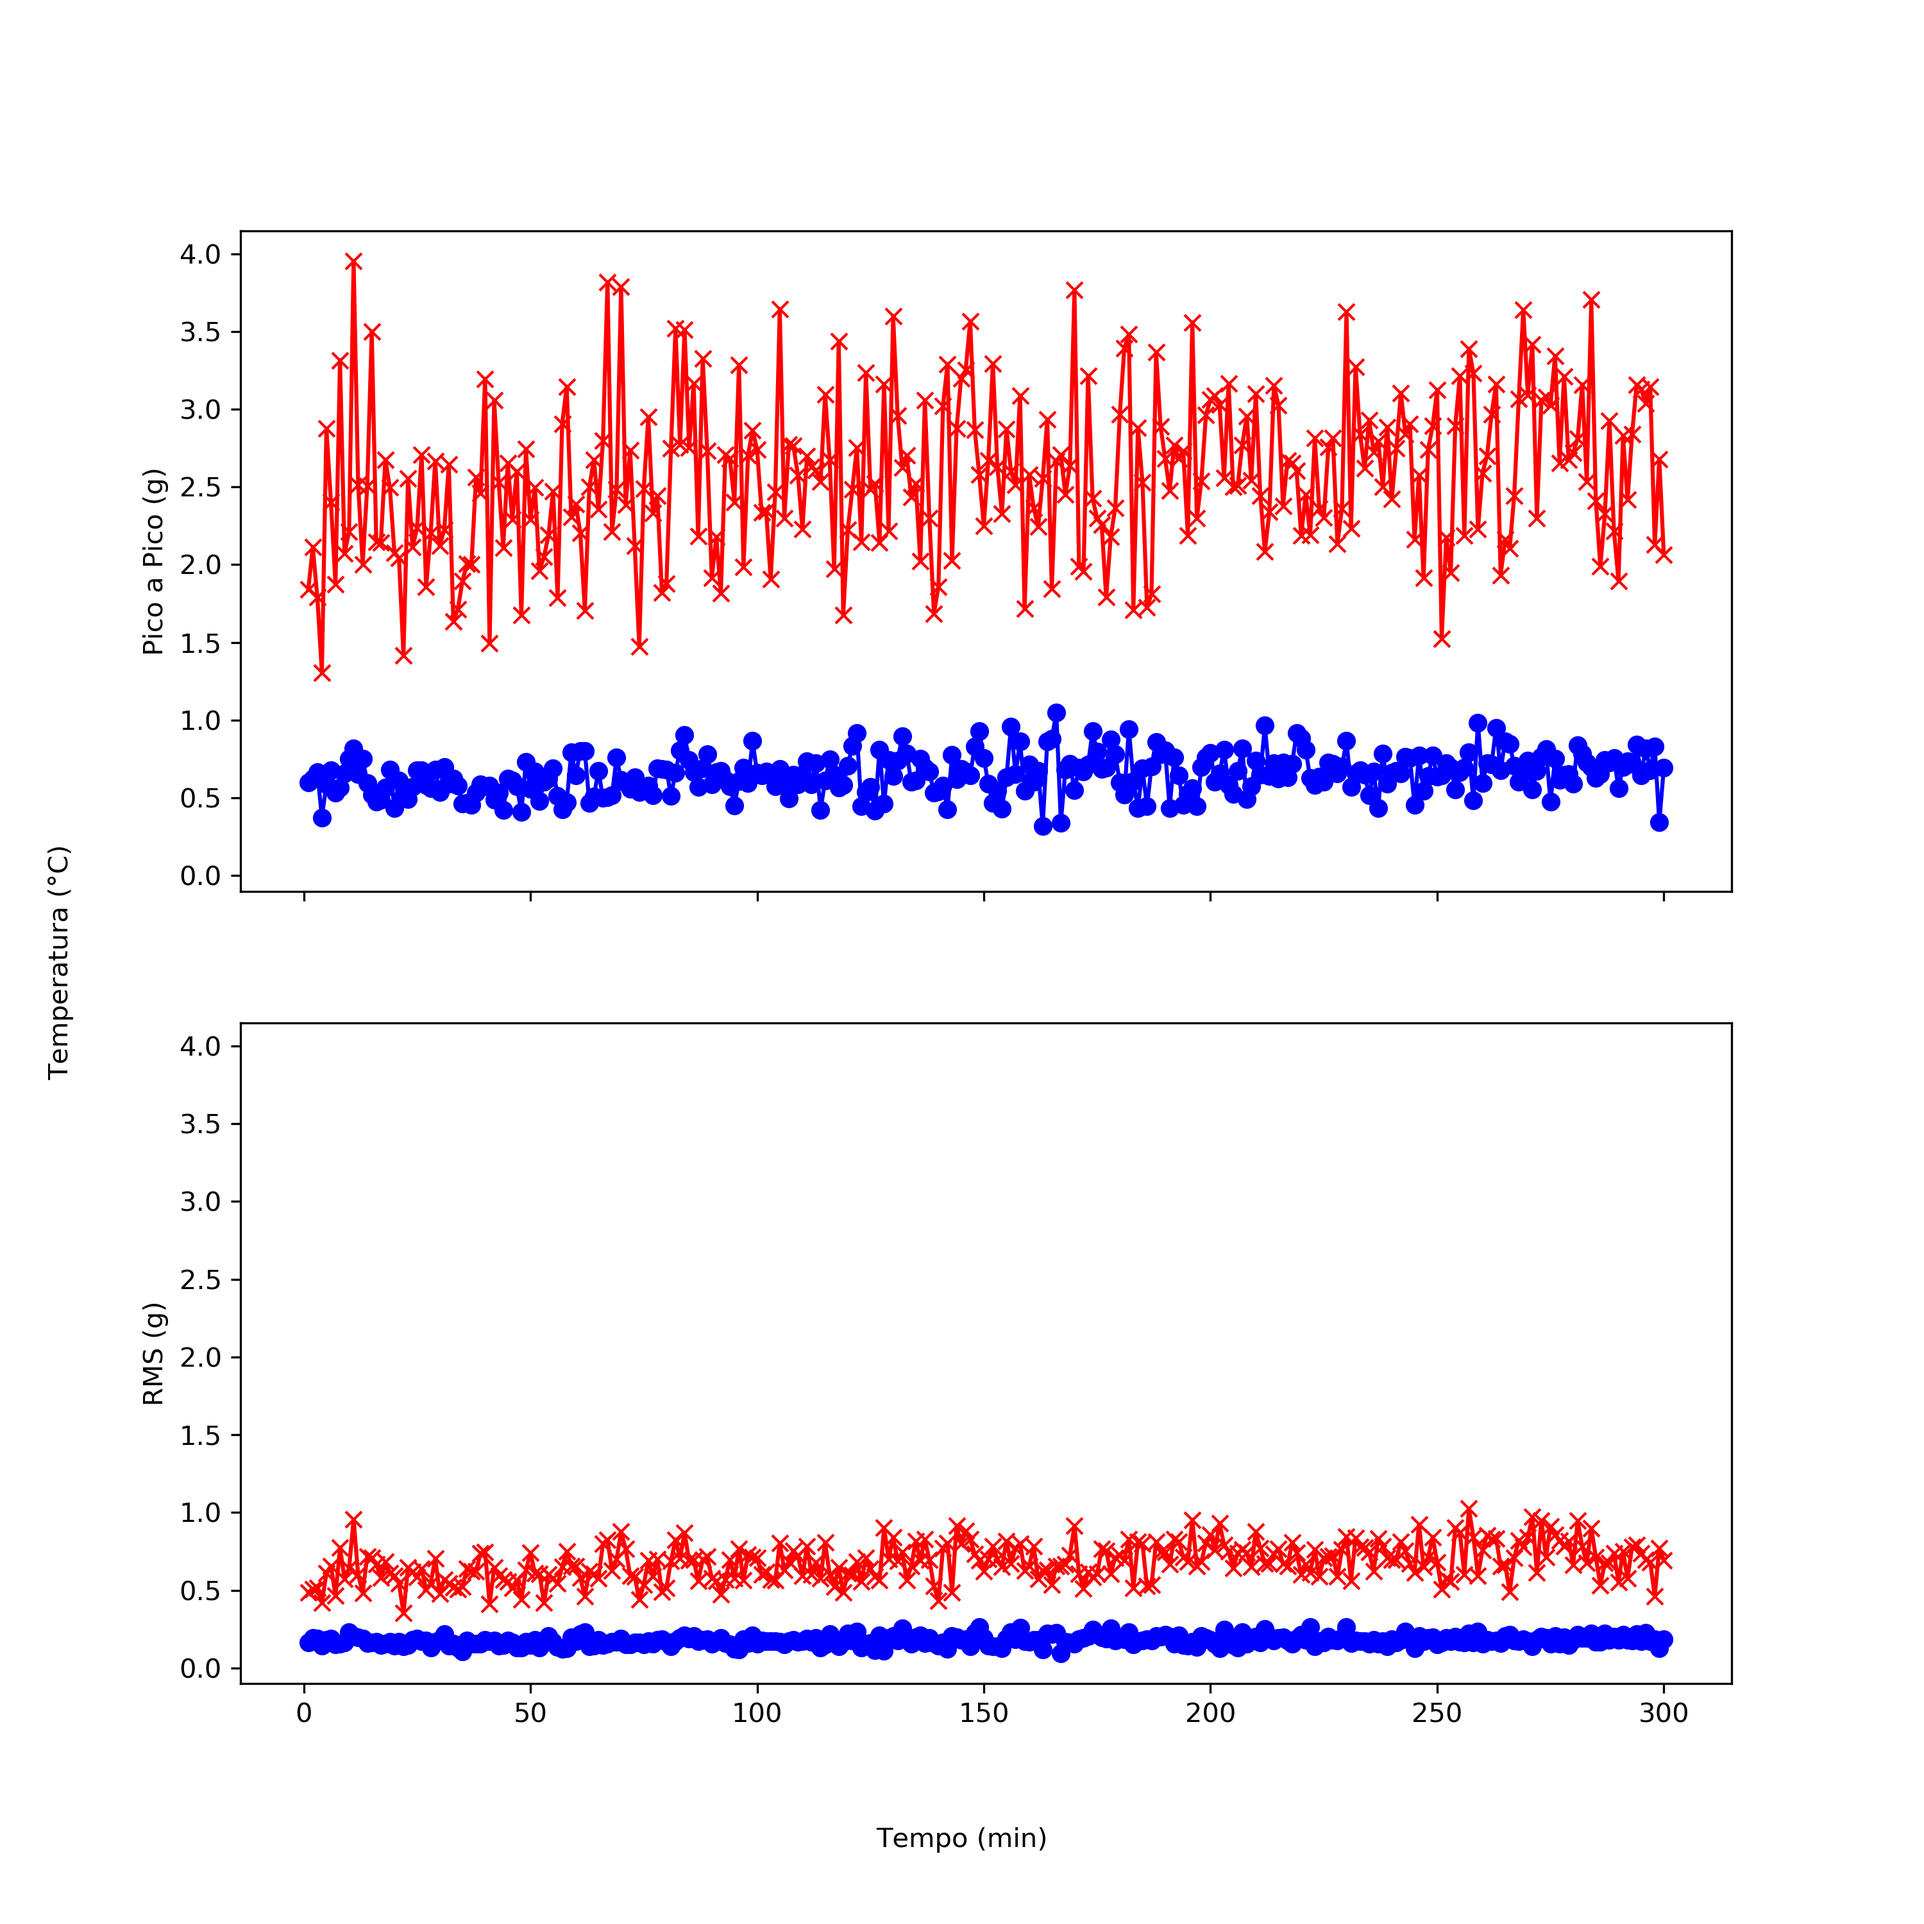
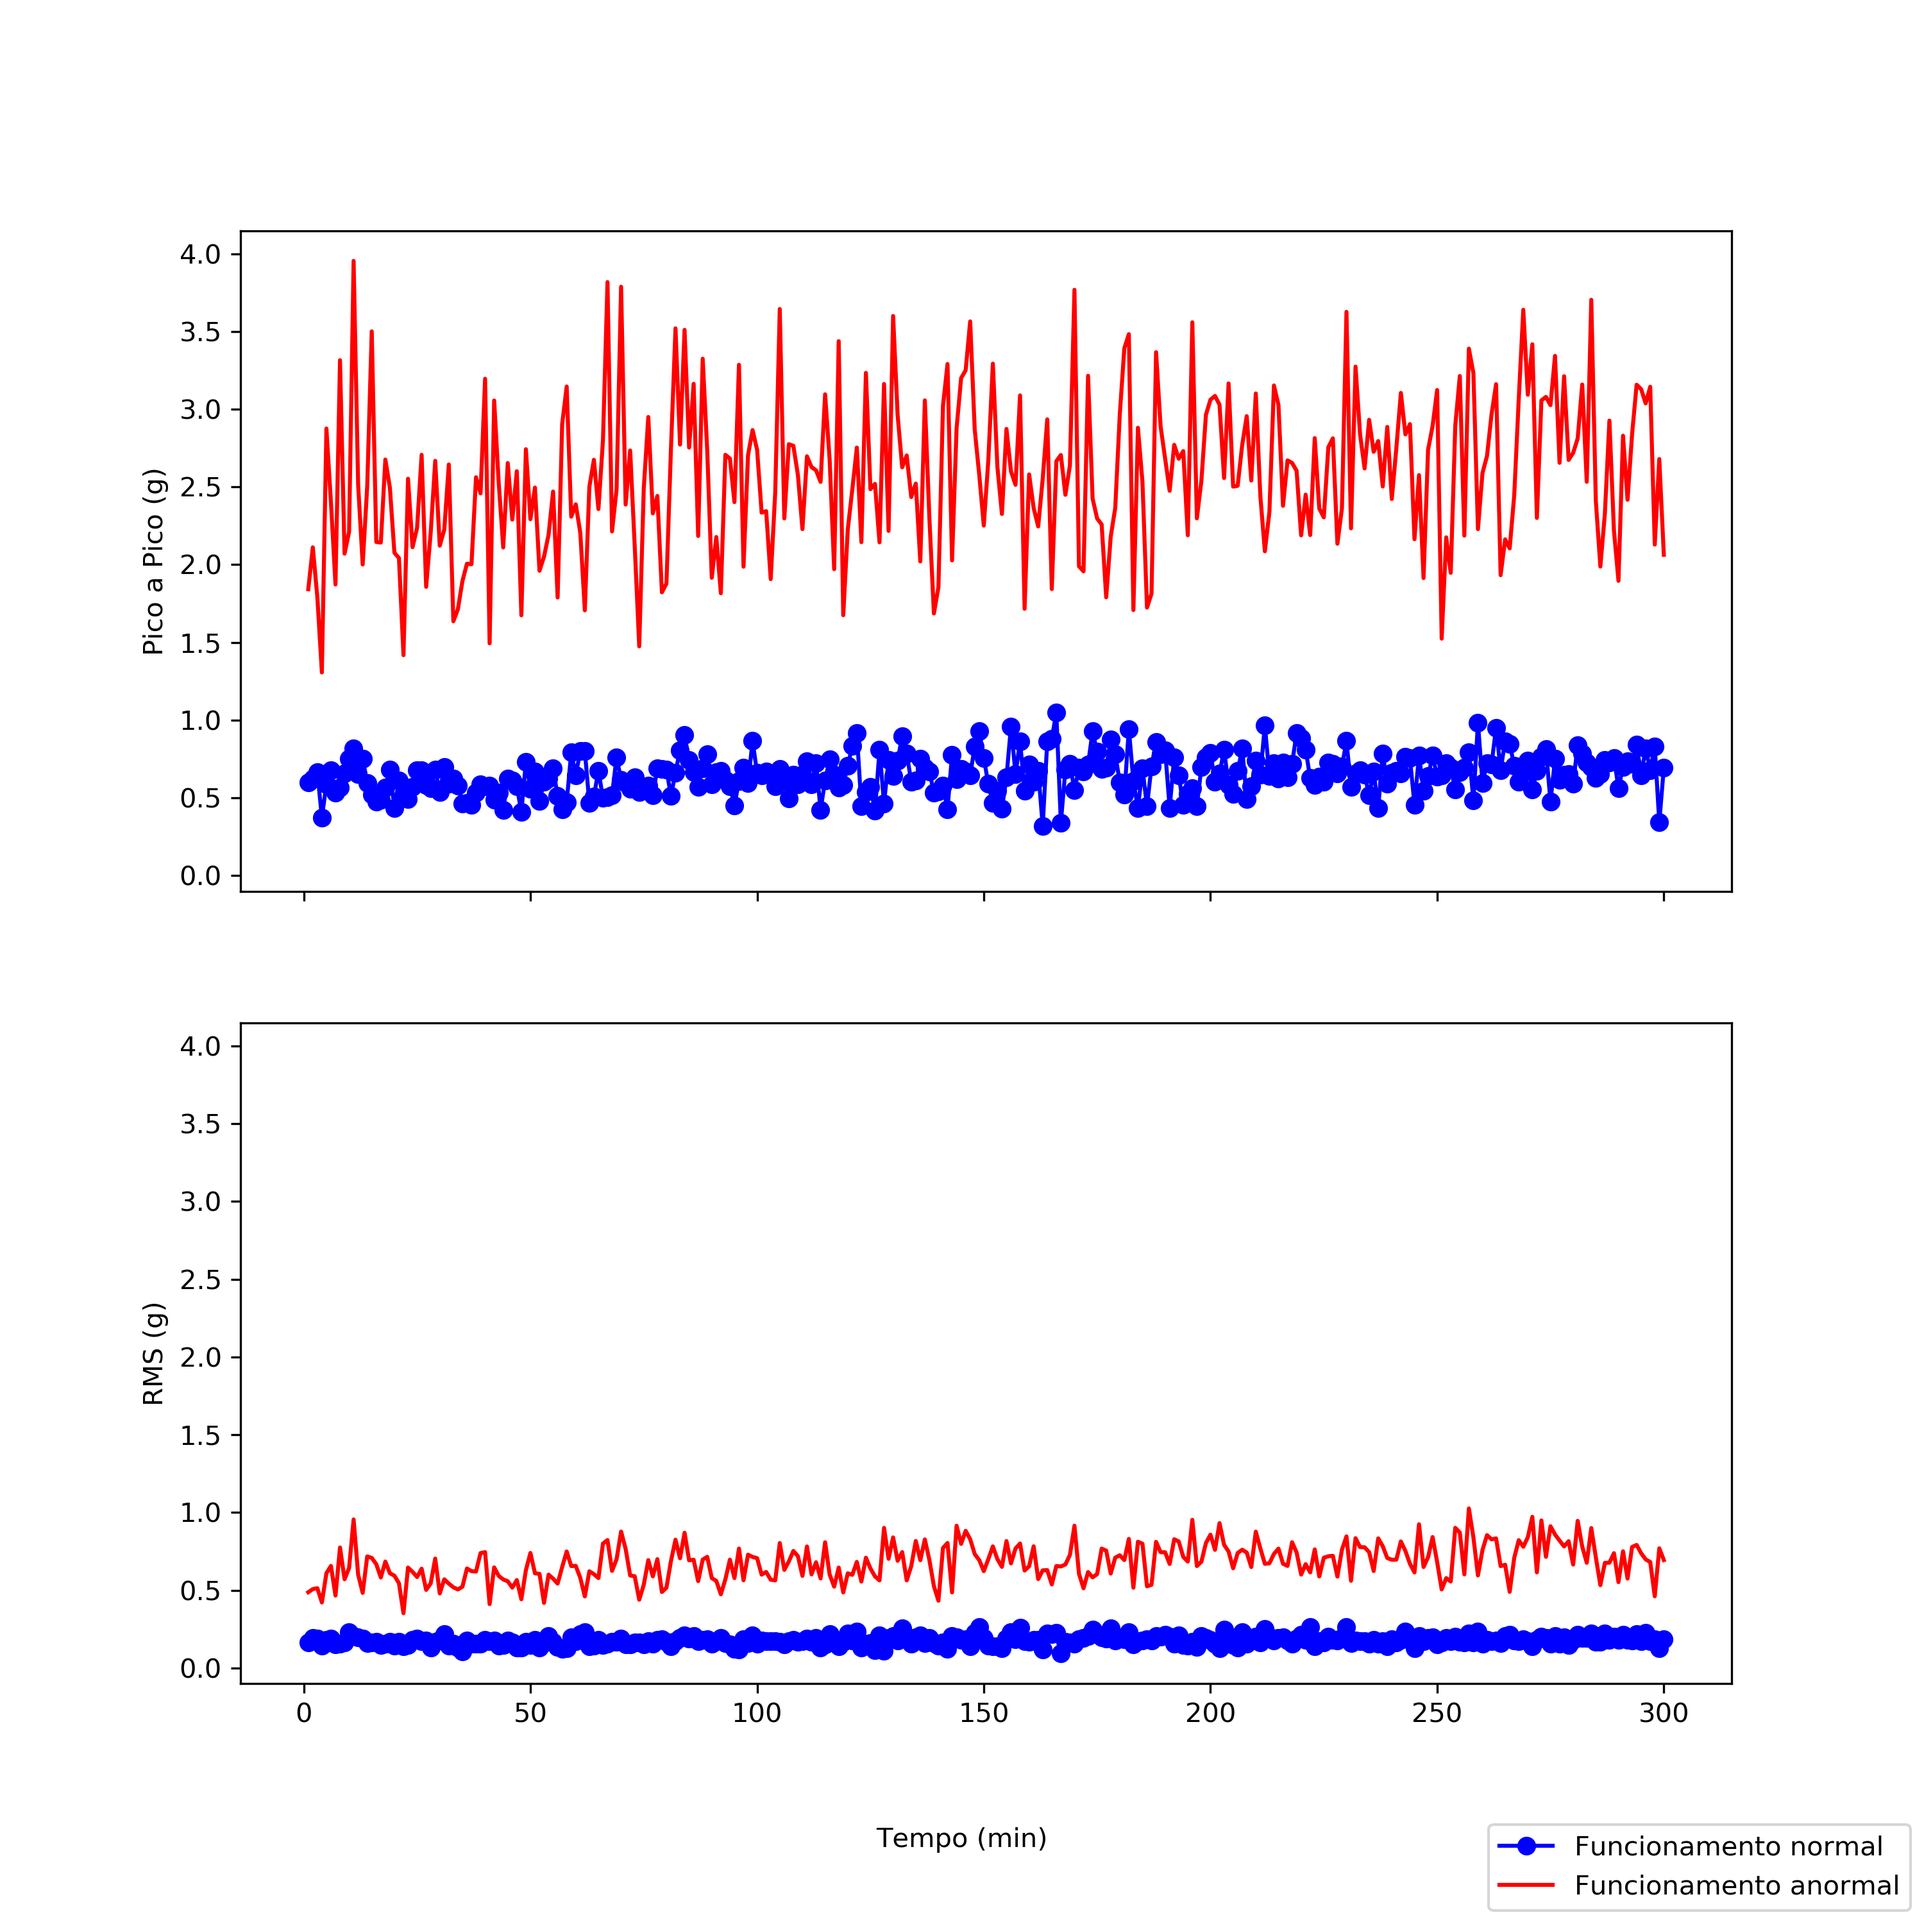
Adicionado os gráficos por eixo

diff --git a/Análise dos dados/graphs.py b/Análise dos dados/graphs.py
@@ -107,46 +107,46 @@ plt.savefig('temperatura.png', dpi=300)
 
 fig, pos = plt.subplots(2, 1, sharex=True, sharey=True, figsize=(10, 10))
 
-pos[0].plot(sample, normal_accx[0:300]/8192, color="blue", marker="o")
-pos[0].plot(sample, anormal_accx[0:300]/8192, color="red", marker="x")
+pos[0].plot(sample, normal_accx[0:300]/8192, color="blue", marker="o", label="Funcionamento normal")
+pos[0].plot(sample, anormal_accx[0:300]/8192, color="red", label="Funcionamento anormal")
 pos[0].set_ylabel('Pico a Pico (g)')
 
 pos[1].plot(sample, normal_rmsx[0:300]/8192, color="blue", marker="o")
-pos[1].plot(sample, anormal_rmsx[0:300]/8192, color="red", marker="x")
+pos[1].plot(sample, anormal_rmsx[0:300]/8192, color="red")
 pos[1].set_ylabel('RMS (g)')
 
+fig.legend(loc='lower right')
 fig.text(0.5, 0.04, 'Tempo (min)', ha='center')
-fig.text(0.025, 0.5, 'Temperatura (°C)', va='center', rotation='vertical')
 plt.savefig('eixoX.png', dpi=300)
 
 ### EIXO Y (Anormal e normal) ###
 
 fig, pos = plt.subplots(2, 1, sharex=True, sharey=True, figsize=(10, 10))
 
-pos[0].plot(sample, normal_accy[0:300]/8192, color="blue", marker="o")
-pos[0].plot(sample, anormal_accy[0:300]/8192, color="red", marker="x")
+pos[0].plot(sample, normal_accy[0:300]/8192, color="blue", marker="o", label="Funcionamento normal")
+pos[0].plot(sample, anormal_accy[0:300]/8192, color="red", label="Funcionamento anormal")
 pos[0].set_ylabel('Pico a Pico (g)')
 
 pos[1].plot(sample, normal_rmsy[0:300]/8192, color="blue", marker="o")
-pos[1].plot(sample, anormal_rmsy[0:300]/8192, color="red", marker="x")
+pos[1].plot(sample, anormal_rmsy[0:300]/8192, color="red")
 pos[1].set_ylabel('RMS (g)')
 
+fig.legend(loc='lower right')
 fig.text(0.5, 0.04, 'Tempo (min)', ha='center')
-fig.text(0.025, 0.5, 'Temperatura (°C)', va='center', rotation='vertical')
 plt.savefig('eixoY.png', dpi=300)
 
 ### EIXO Z (Anormal e normal) ###
 
 fig, pos = plt.subplots(2, 1, sharex=True, sharey=True, figsize=(10, 10))
 
-pos[0].plot(sample, normal_accz[0:300]/8192, color="blue", marker="o")
-pos[0].plot(sample, anormal_accz[0:300]/8192, color="red", marker="x")
+pos[0].plot(sample, normal_accz[0:300]/8192, color="blue", marker="o", label="Funcionamento normal")
+pos[0].plot(sample, anormal_accz[0:300]/8192, color="red", label="Funcionamento anormal")
 pos[0].set_ylabel('Pico a Pico (g)')
 
 pos[1].plot(sample, normal_rmsz[0:300]/8192, color="blue", marker="o")
-pos[1].plot(sample, anormal_rmsz[0:300]/8192, color="red", marker="x")
+pos[1].plot(sample, anormal_rmsz[0:300]/8192, color="red")
 pos[1].set_ylabel('RMS (g)')
 
+fig.legend(loc='lower right')
 fig.text(0.5, 0.04, 'Tempo (min)', ha='center')
-fig.text(0.025, 0.5, 'Temperatura (°C)', va='center', rotation='vertical')
 plt.savefig('eixoZ.png', dpi=300)
